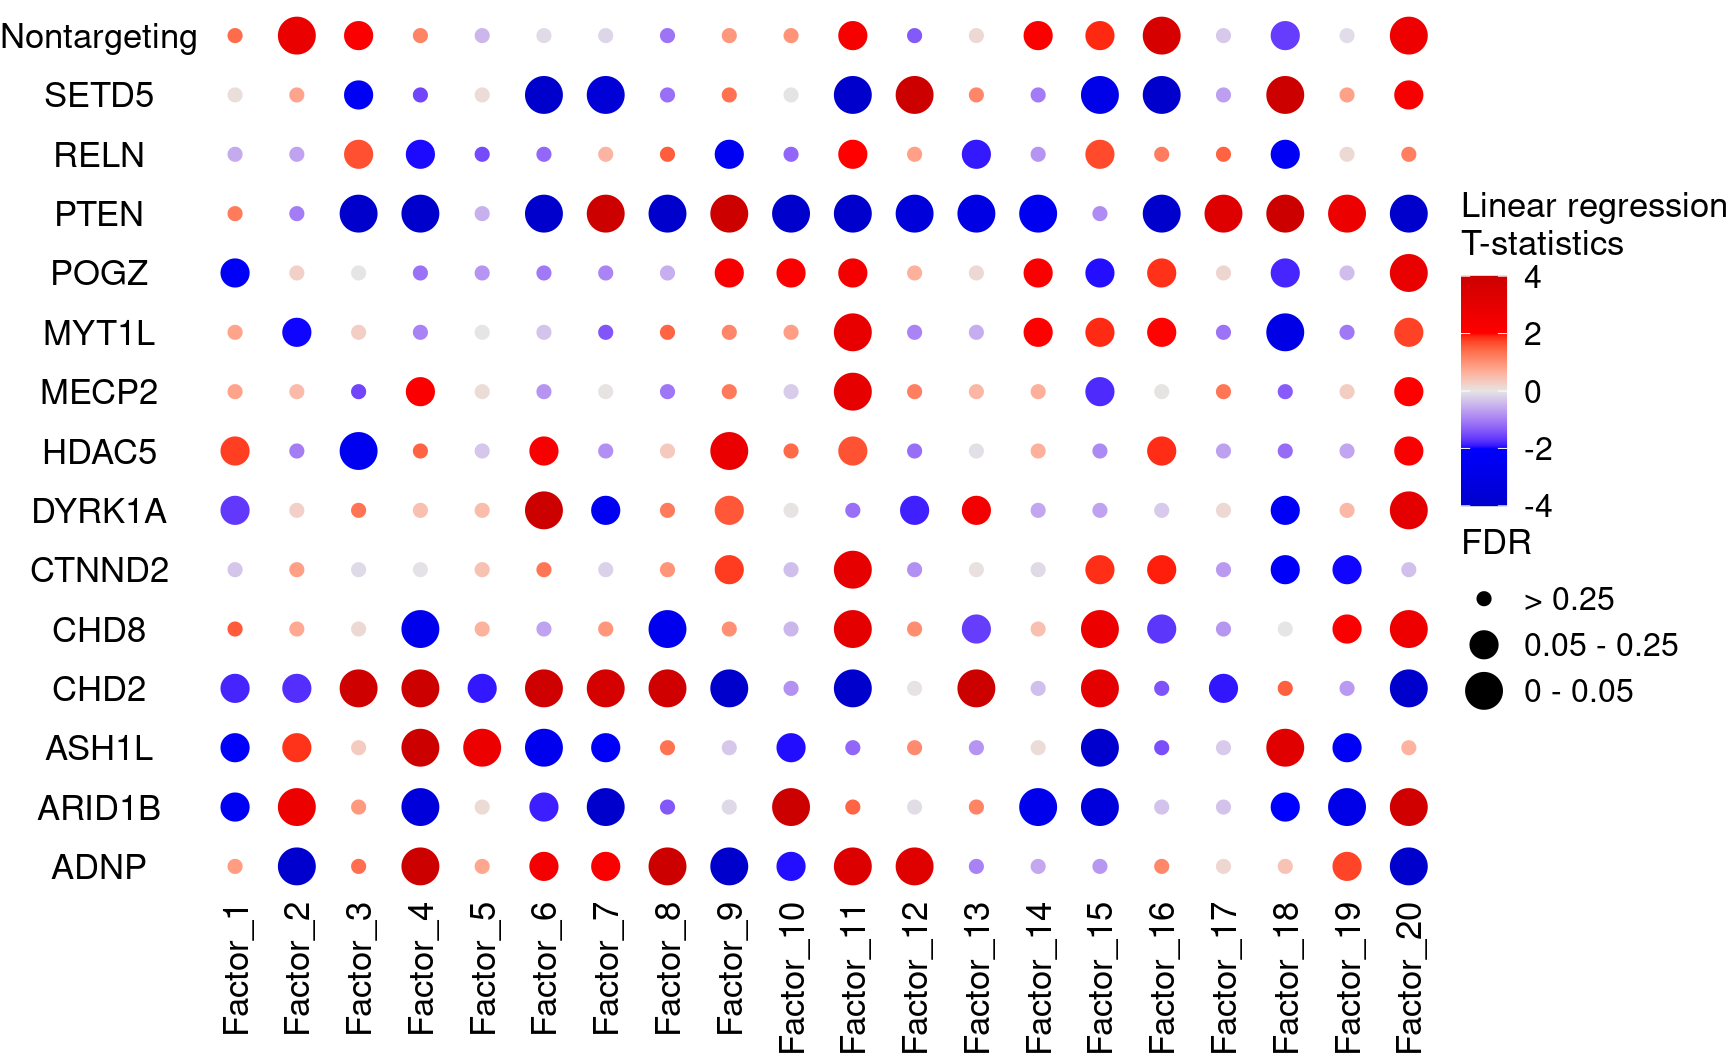
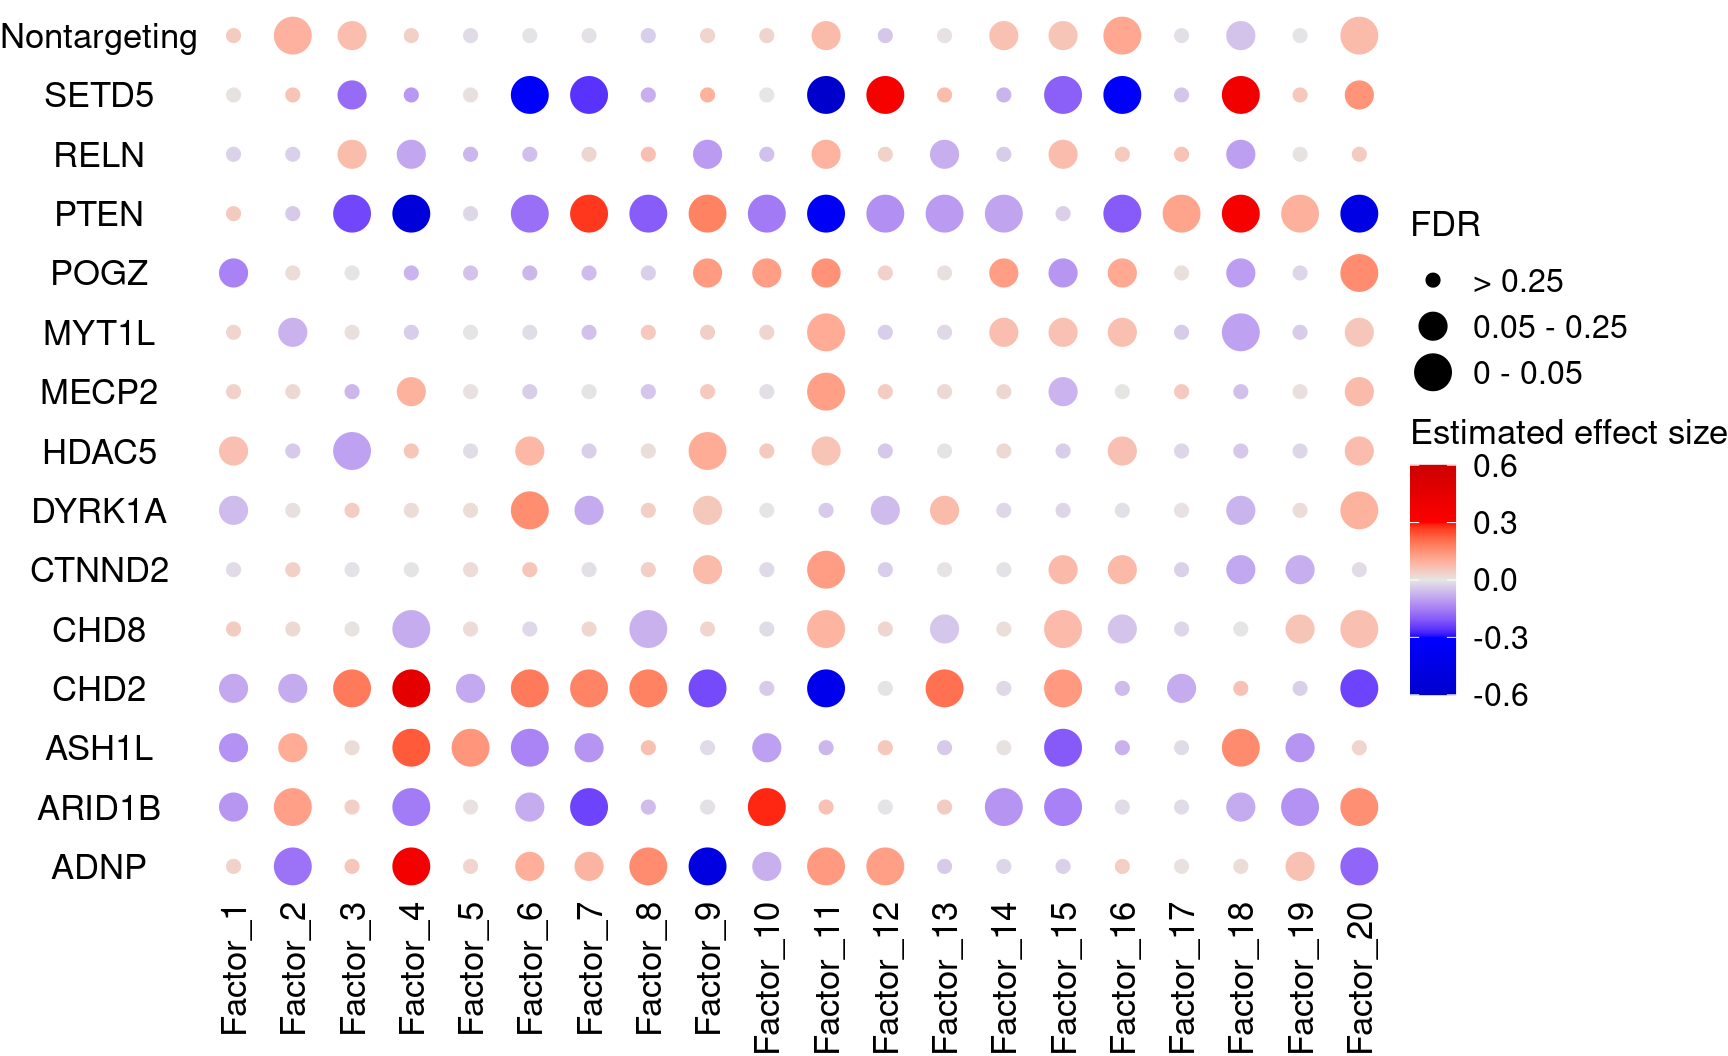
Build site.

diff --git a/docs/unguided_gsfa_LUHMES_data.html b/docs/unguided_gsfa_LUHMES_data.html
@@ -481,16 +481,16 @@ This reproducible <a href="https://rmarkdown.rstudio.com">R Markdown</a> analysi
 <div class="panel panel-default">
 <div class="panel-heading">
 <p class="panel-title">
-<a data-toggle="collapse" data-parent="#workflowr-checks" href="#strongRepositoryversionstrongahrefhttpsgithubcomkevinlkxGSFAanalysistree7b115b5f59895b7a796f1d3b09a756f22f5cecb6targetblank7b115b5a"> <span class="glyphicon glyphicon-ok text-success" aria-hidden="true"></span> <strong>Repository version:</strong> <a href="https://github.com/kevinlkx/GSFA-analysis/tree/7b115b5f59895b7a796f1d3b09a756f22f5cecb6" target="_blank">7b115b5</a> </a>
+<a data-toggle="collapse" data-parent="#workflowr-checks" href="#strongRepositoryversionstrongahrefhttpsgithubcomkevinlkxGSFAanalysistreed98fea792b5eebc3698736a33395ea4afd21bce6targetblankd98fea7a"> <span class="glyphicon glyphicon-ok text-success" aria-hidden="true"></span> <strong>Repository version:</strong> <a href="https://github.com/kevinlkx/GSFA-analysis/tree/d98fea792b5eebc3698736a33395ea4afd21bce6" target="_blank">d98fea7</a> </a>
 </p>
 </div>
[2 lines of base64/hex data omitted]
 <div class="panel-body">
 <p>
 Great! You are using Git for version control. Tracking code development and connecting the code version to the results is critical for reproducibility.
 </p>
 <p>
-The results in this page were generated with repository version <a href="https://github.com/kevinlkx/GSFA-analysis/tree/7b115b5f59895b7a796f1d3b09a756f22f5cecb6" target="_blank">7b115b5</a>. See the <em>Past versions</em> tab to see a history of the changes made to the R Markdown and HTML files.
+The results in this page were generated with repository version <a href="https://github.com/kevinlkx/GSFA-analysis/tree/d98fea792b5eebc3698736a33395ea4afd21bce6" target="_blank">d98fea7</a>. See the <em>Past versions</em> tab to see a history of the changes made to the R Markdown and HTML files.
 </p>
 <p>
 Note that you need to be careful to ensure that all relevant files for the analysis have been committed to Git prior to generating the results (you can use <code>wflow_publish</code> or <code>wflow_git_commit</code>). workflowr only checks the R Markdown file, but you know if there are other scripts or data files that it depends on. Below is the status of the Git repository when the results were generated:
@@ -531,8 +531,6 @@ Untracked files:
 
 Unstaged changes:
     Modified:   analysis/sceptre_LUHMES_data.Rmd
-    Modified:   analysis/twostep_clustering_LUHMES_data.Rmd
-    Modified:   analysis/twostep_clustering_TCells_data.Rmd
     Modified:   code/run_sceptre_cropseq_data.sbatch
     Modified:   code/sceptre_analysis.R
 
@@ -573,6 +571,40 @@ Message
 </tr>
 </thead>
 <tbody>
+<tr>
+<td>
+Rmd
+</td>
+<td>
+<a href="https://github.com/kevinlkx/GSFA-analysis/blob/d98fea792b5eebc3698736a33395ea4afd21bce6/analysis/unguided_gsfa_LUHMES_data.Rmd" target="_blank">d98fea7</a>
+</td>
+<td>
+kevinlkx
+</td>
+<td>
+2022-08-25
+</td>
+<td>
+plot betas in the dotplots
+</td>
+</tr>
+<tr>
+<td>
+html
+</td>
+<td>
+<a href="https://rawcdn.githack.com/kevinlkx/GSFA-analysis/51fd61a316a9a6d325cf402824f5367288882962/docs/unguided_gsfa_LUHMES_data.html" target="_blank">51fd61a</a>
+</td>
+<td>
+kevinlkx
+</td>
+<td>
+2022-08-25
+</td>
+<td>
+Build site.
+</td>
+</tr>
 <tr>
 <td>
 Rmd
@@ -699,7 +731,6 @@ theme_set(theme_bw() + theme(plot.title = element_text(size = 14, hjust = 0.5),
                              panel.grid.minor = element_blank())
 )
 suppressPackageStartupMessages(library(gridExtra))
-library(foreach)
 source(&quot;code/plotting_functions.R&quot;)</code></pre>
 <p>Set directories</p>
 <pre class="r"><code>res_dir &lt;- &quot;/project2/xinhe/kevinluo/GSFA/unguided_GSFA/LUHMES/&quot;
@@ -790,13 +821,13 @@ bonferroni_mat$perturb &lt;- NULL
 bonferroni_mat &lt;- as.matrix(bonferroni_mat)</code></pre>
 <pre class="r"><code># pdf(file.path(res_dir, &quot;stat-fdr-dotplot.pdf&quot;), width = 9, height = 5.5)
 KO_names &lt;- rownames(fdr_mat)
-dotplot_effectsize(t(stat_mat), t(fdr_mat),
+dotplot_effectsize(t(beta_mat), t(fdr_mat),
                    reorder_markers = c(KO_names[KO_names!=&quot;Nontargeting&quot;], &quot;Nontargeting&quot;),
-                   color_lgd_title = &quot;Linear regression\nT-statistics&quot;,
+                   color_lgd_title = &quot;Estimated effect size&quot;,
                    size_lgd_title = &quot;FDR&quot;,
-                   max_score = 4,
-                   min_score = -4,
-                   by_score = 2) + coord_flip()</code></pre>
+                   max_score = 0.6,
+                   min_score = -0.6,
+                   by_score = 0.3) + coord_flip()</code></pre>
 <p><img src="figure/unguided_gsfa_LUHMES_data.Rmd/stat-fdr-dotplot-1.png" width="864" style="display: block; margin: auto;" /></p>
 <p>
 <button type="button" class="btn btn-default btn-xs btn-workflowr btn-workflowr-fig" data-toggle="collapse" data-target="#fig-stat-fdr-dotplot-1">
@@ -839,13 +870,13 @@ kevinlkx
 <p>Plot perturbation ~ cluster associations (show Bonferroni adjusted p-values)</p>
 <pre class="r"><code># pdf(file.path(res_dir, &quot;stat-bonferroni-dotplot.pdf&quot;), width = 9, height = 5.5)
 KO_names &lt;- rownames(bonferroni_mat)
-dotplot_effectsize(t(stat_mat), t(bonferroni_mat),
+dotplot_effectsize(t(beta_mat), t(bonferroni_mat),
                    reorder_markers = c(KO_names[KO_names!=&quot;Nontargeting&quot;], &quot;Nontargeting&quot;),
-                   color_lgd_title = &quot;Linear regression\nT-statistics&quot;,
+                   color_lgd_title = &quot;Estimated effect size&quot;,
                    size_lgd_title = &quot;Bonferroni\nadjusted p-value&quot;,
-                   max_score = 4,
-                   min_score = -4,
-                   by_score = 2) + coord_flip()</code></pre>
+                   max_score = 0.6,
+                   min_score = -0.6,
+                   by_score = 0.3) + coord_flip()</code></pre>
 <p><img src="figure/unguided_gsfa_LUHMES_data.Rmd/stat-bonferroni-dotplot-1.png" width="864" style="display: block; margin: auto;" /></p>
 <p>
 <button type="button" class="btn btn-default btn-xs btn-workflowr btn-workflowr-fig" data-toggle="collapse" data-target="#fig-stat-bonferroni-dotplot-1">
@@ -1260,55 +1291,55 @@ attached base packages:
 [8] base     
 
 other attached packages:
- [1] lattice_0.20-45      foreach_1.5.2        gridExtra_2.3       
- [4] dplyr_1.0.8          reshape2_1.4.4       ggplot2_3.3.5       
- [7] ComplexHeatmap_2.6.2 SeuratObject_4.0.4   Seurat_4.1.0        
-[10] data.table_1.14.2    workflowr_1.7.0     
+ [1] lattice_0.20-45      gridExtra_2.3        dplyr_1.0.8         
+ [4] reshape2_1.4.4       ggplot2_3.3.5        ComplexHeatmap_2.6.2
+ [7] SeuratObject_4.0.4   Seurat_4.1.0         data.table_1.14.2   
+[10] workflowr_1.7.0     
 
 loaded via a namespace (and not attached):
-  [1] circlize_0.4.15       plyr_1.8.6            igraph_1.3.4         
-  [4] lazyeval_0.2.2        splines_4.0.4         listenv_0.8.0        
-  [7] scattermore_0.7       digest_0.6.29         htmltools_0.5.3      
- [10] fansi_1.0.3           magrittr_2.0.3        tensor_1.5           
- [13] cluster_2.1.3         ROCR_1.0-11           globals_0.16.0       
- [16] matrixStats_0.62.0    spatstat.sparse_2.1-0 colorspace_2.0-3     
- [19] ggrepel_0.9.1         xfun_0.30             callr_3.7.0          
- [22] crayon_1.5.1          jsonlite_1.8.0        spatstat.data_2.1-2  
- [25] survival_3.3-1        zoo_1.8-9             iterators_1.0.14     
- [28] glue_1.6.2            polyclip_1.10-0       gtable_0.3.0         
- [31] leiden_0.3.9          GetoptLong_1.0.5      future.apply_1.8.1   
- [34] shape_1.4.6           BiocGenerics_0.36.1   abind_1.4-5          
- [37] scales_1.2.0          DBI_1.1.3             spatstat.random_2.1-0
- [40] miniUI_0.1.1.1        Rcpp_1.0.9            viridisLite_0.4.0    
- [43] xtable_1.8-4          clue_0.3-60           reticulate_1.25      
- [46] spatstat.core_2.4-0   stats4_4.0.4          htmlwidgets_1.5.4    
- [49] httr_1.4.2            RColorBrewer_1.1-3    ellipsis_0.3.2       
- [52] ica_1.0-2             pkgconfig_2.0.3       farver_2.1.1         
- [55] sass_0.4.1            uwot_0.1.11           deldir_1.0-6         
- [58] utf8_1.2.2            labeling_0.4.2        tidyselect_1.1.2     
- [61] rlang_1.0.4           later_1.3.0           munsell_0.5.0        
- [64] tools_4.0.4           cli_3.3.0             generics_0.1.3       
- [67] ggridges_0.5.3        evaluate_0.16         stringr_1.4.0        
- [70] fastmap_1.1.0         yaml_2.3.5            goftest_1.2-3        
- [73] processx_3.5.3        knitr_1.38            fs_1.5.2             
- [76] fitdistrplus_1.1-8    purrr_0.3.4           RANN_2.6.1           
- [79] pbapply_1.5-0         future_1.24.0         nlme_3.1-159         
- [82] whisker_0.4           mime_0.12             compiler_4.0.4       
- [85] rstudioapi_0.13       plotly_4.10.0         png_0.1-7            
- [88] spatstat.utils_2.3-0  tibble_3.1.6          bslib_0.3.1          
- [91] stringi_1.7.6         highr_0.9             ps_1.7.1             
- [94] Matrix_1.4-1          vctrs_0.4.1           pillar_1.8.0         
- [97] lifecycle_1.0.1       spatstat.geom_2.3-2   lmtest_0.9-40        
-[100] jquerylib_0.1.4       GlobalOptions_0.1.2   RcppAnnoy_0.0.19     
-[103] cowplot_1.1.1         irlba_2.3.5           httpuv_1.6.5         
-[106] patchwork_1.1.1       R6_2.5.1              promises_1.2.0.1     
-[109] KernSmooth_2.23-20    IRanges_2.24.1        parallelly_1.32.1    
-[112] codetools_0.2-18      MASS_7.3-58.1         assertthat_0.2.1     
-[115] rprojroot_2.0.2       rjson_0.2.21          withr_2.5.0          
-[118] sctransform_0.3.3     S4Vectors_0.28.1      mgcv_1.8-39          
-[121] parallel_4.0.4        rpart_4.1-15          tidyr_1.2.0          
-[124] rmarkdown_2.13        Cairo_1.6-0           Rtsne_0.15           
-[127] git2r_0.30.1          getPass_0.2-2         shiny_1.7.1          </code></pre>
+  [1] Rtsne_0.15            colorspace_2.0-3      rjson_0.2.21         
+  [4] deldir_1.0-6          ellipsis_0.3.2        ggridges_0.5.3       
+  [7] rprojroot_2.0.2       circlize_0.4.15       GlobalOptions_0.1.2  
+ [10] fs_1.5.2              clue_0.3-60           rstudioapi_0.13      
+ [13] spatstat.data_2.1-2   farver_2.1.1          leiden_0.3.9         
+ [16] listenv_0.8.0         ggrepel_0.9.1         fansi_1.0.3          
+ [19] codetools_0.2-18      splines_4.0.4         knitr_1.38           
+ [22] polyclip_1.10-0       jsonlite_1.8.0        Cairo_1.6-0          
+ [25] ica_1.0-2             cluster_2.1.3         png_0.1-7            
+ [28] uwot_0.1.11           shiny_1.7.1           sctransform_0.3.3    
+ [31] spatstat.sparse_2.1-0 compiler_4.0.4        httr_1.4.2           
+ [34] assertthat_0.2.1      Matrix_1.4-1          fastmap_1.1.0        
+ [37] lazyeval_0.2.2        cli_3.3.0             later_1.3.0          
+ [40] htmltools_0.5.3       tools_4.0.4           igraph_1.3.4         
+ [43] gtable_0.3.0          glue_1.6.2            RANN_2.6.1           
+ [46] Rcpp_1.0.9            scattermore_0.7       jquerylib_0.1.4      
+ [49] vctrs_0.4.1           nlme_3.1-159          lmtest_0.9-40        
+ [52] spatstat.random_2.1-0 xfun_0.30             stringr_1.4.0        
+ [55] globals_0.16.0        ps_1.7.1              mime_0.12            
+ [58] miniUI_0.1.1.1        lifecycle_1.0.1       irlba_2.3.5          
+ [61] goftest_1.2-3         future_1.24.0         getPass_0.2-2        
+ [64] MASS_7.3-58.1         zoo_1.8-9             scales_1.2.0         
+ [67] spatstat.core_2.4-0   promises_1.2.0.1      spatstat.utils_2.3-0 
+ [70] parallel_4.0.4        RColorBrewer_1.1-3    yaml_2.3.5           
+ [73] reticulate_1.25       pbapply_1.5-0         sass_0.4.1           
+ [76] rpart_4.1-15          stringi_1.7.6         highr_0.9            
+ [79] S4Vectors_0.28.1      BiocGenerics_0.36.1   shape_1.4.6          
+ [82] rlang_1.0.4           pkgconfig_2.0.3       matrixStats_0.62.0   
+ [85] evaluate_0.16         ROCR_1.0-11           purrr_0.3.4          
+ [88] tensor_1.5            labeling_0.4.2        patchwork_1.1.1      
+ [91] htmlwidgets_1.5.4     cowplot_1.1.1         processx_3.5.3       
+ [94] tidyselect_1.1.2      parallelly_1.32.1     RcppAnnoy_0.0.19     
+ [97] plyr_1.8.6            magrittr_2.0.3        R6_2.5.1             
+[100] IRanges_2.24.1        generics_0.1.3        DBI_1.1.3            
+[103] withr_2.5.0           mgcv_1.8-39           pillar_1.8.0         
+[106] whisker_0.4           fitdistrplus_1.1-8    survival_3.3-1       
+[109] abind_1.4-5           tibble_3.1.6          future.apply_1.8.1   
+[112] crayon_1.5.1          KernSmooth_2.23-20    utf8_1.2.2           
+[115] spatstat.geom_2.3-2   plotly_4.10.0         rmarkdown_2.13       
+[118] GetoptLong_1.0.5      callr_3.7.0           git2r_0.30.1         
+[121] digest_0.6.29         xtable_1.8-4          tidyr_1.2.0          
+[124] httpuv_1.6.5          stats4_4.0.4          munsell_0.5.0        
+[127] viridisLite_0.4.0     bslib_0.3.1          </code></pre>
 </div>
 </div>
 
